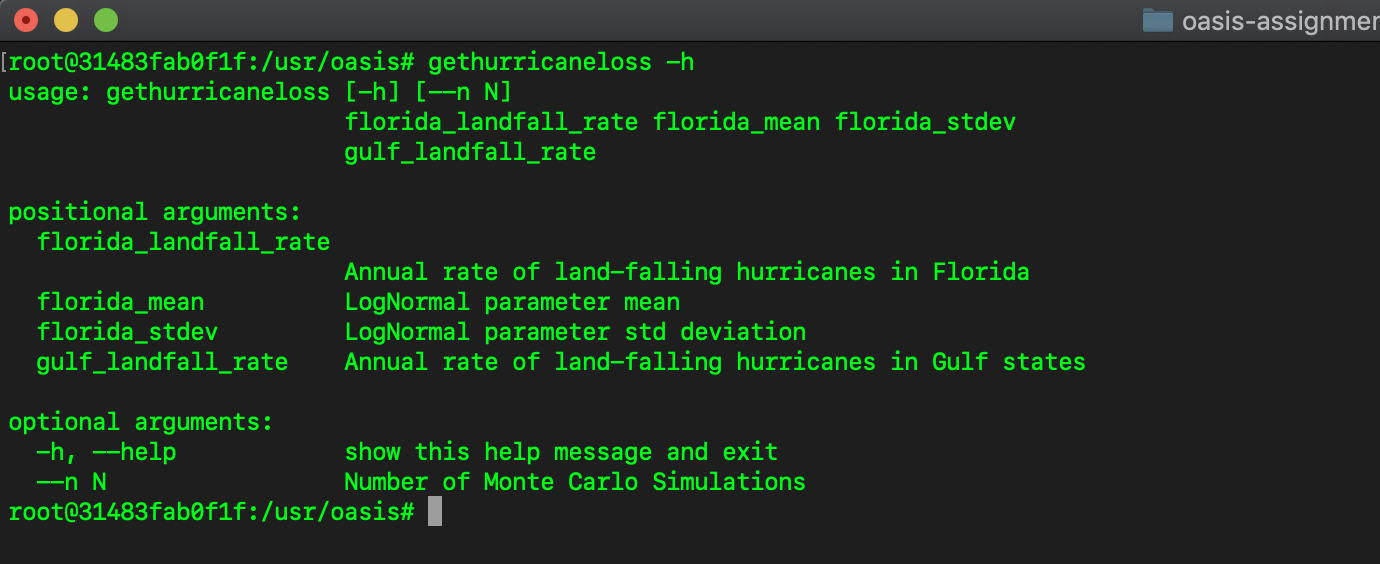
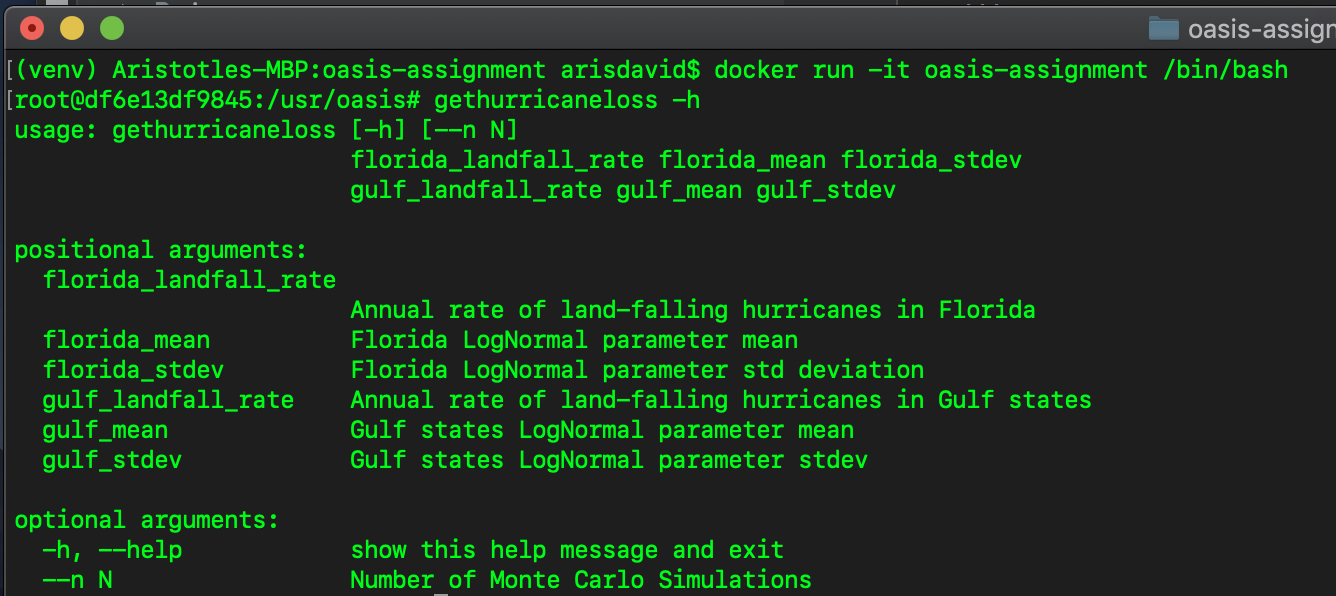
Added extraction of args and passing into the model

Changed region(s): [[0.0, 0.0, 1.0, 1.0], [0.0307, 0.9645, 0.0921, 0.9947]]

diff --git a/README.md b/README.md
@@ -15,7 +15,7 @@ Hurricane loss model to estimate expected annual economic loss.
 4. Call the hurricane model.
    
    ```
-    gethurricaneloss 0.4 0.5 0.6 0.7 --n=100
+    gethurricaneloss 0.4 0.5 0.28 0.55 0.65 0.31 --n=100
    ```
 5. For help on understanding the parameters, type the following command
    ```
@@ -25,9 +25,11 @@ Hurricane loss model to estimate expected annual economic loss.
     ```
     positional arguments:
     florida_landfall_rate Annual rate of land-falling hurricanes in Florida
-    florida_mean          LogNormal parameter mean
-    florida_stdev         LogNormal parameter std deviation
+    florida_mean          Florida LogNormal parameter mean
+    florida_stdev         Florida LogNormal parameter std deviation
     gulf_landfall_rate    Annual rate of land-falling hurricanes in Gulf states
+    gulf_mean             Gulf states LogNormal parameter mean
+    gulf_stdev            Gulf states LogNormal parameter stdev
     
     optional arguments:
       --n N               Number of Monte Carlo Simulations
